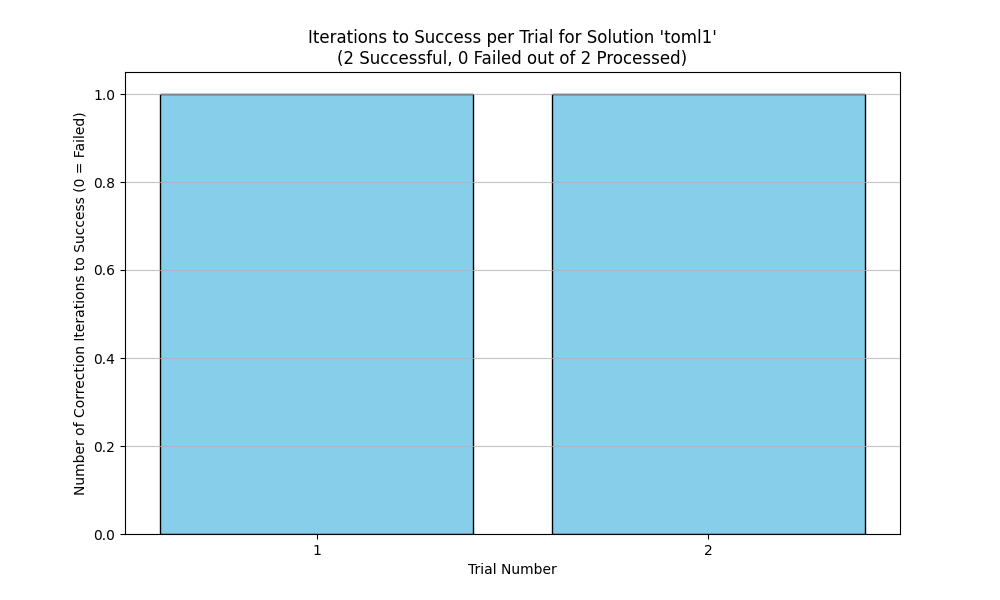
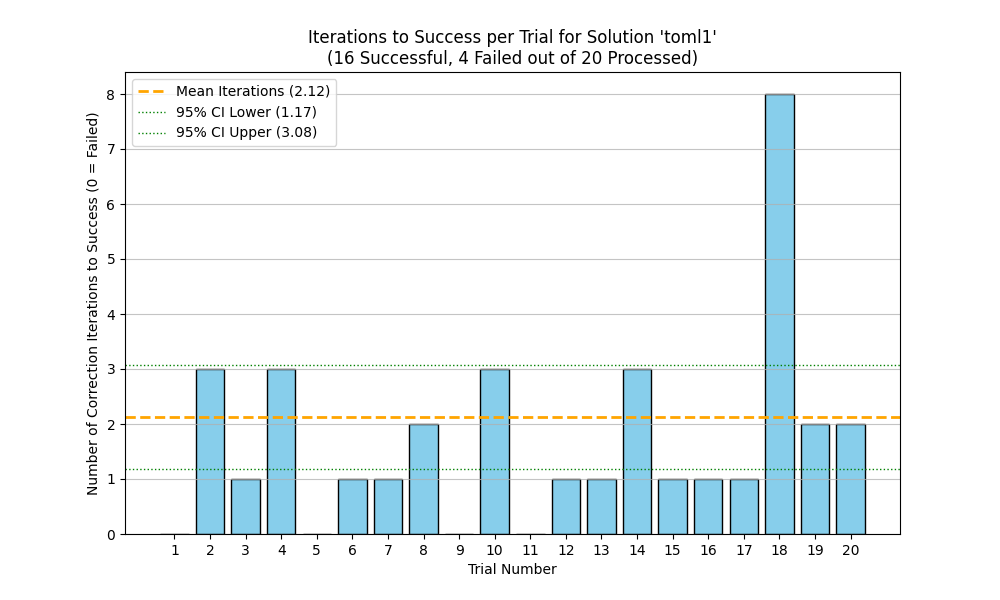
New graphic plot

diff --git a/plot.py b/plot.py
@@ -5,6 +5,8 @@ import statistics
 import matplotlib.pyplot as plt
 import glob
 from collections import Counter
+import numpy as np # Import numpy
+from scipy import stats # Import scipy.stats
 
 LOG_DIR = "logs"
 PLOT_DIR = "plots" # Define the output directory for plots
@@ -97,10 +99,10 @@ def main(trials, loops_value, solution_name):
             # trial_results[i] = -2 # Example: -2 for missing log
 
     # --- Statistics ---
-    successful_iterations = [iters for iters in trial_results.values() if iters > 0]
+    successful_iterations_overall = [iters for iters in trial_results.values() if iters > 0]
     # Failures are trials processed where result is <= 0
     failed_trials = len([res for res in trial_results.values() if res <= 0])
-    num_successful = len(successful_iterations)
+    num_successful = len(successful_iterations_overall)
     num_processed = len(trial_results) # Number of trials where logs were found
 
     print("\n--- Analysis Results ---")
@@ -114,42 +116,93 @@ def main(trials, loops_value, solution_name):
          print("\nNo trials processed (no relevant log files found). Cannot generate plot.")
          return # Exit if no data
 
+    # --- Calculate Cumulative Statistics ---
+    trial_numbers_processed = sorted(trial_results.keys())
+    cumulative_trial_numbers_for_plot = []
+    cumulative_means = []
+    cumulative_ci_lowers = []
+    cumulative_ci_uppers = []
+    current_successful_iterations = []
+
+    for k in trial_numbers_processed: # Iterate through the processed trials in order
+        if trial_results[k] > 0: # Consider only successful trials for cumulative stats
+            current_successful_iterations.append(trial_results[k])
+
+        if len(current_successful_iterations) >= 2: # Need at least 2 successful points for CI
+            mean_k = np.mean(current_successful_iterations)
+            sem_k = stats.sem(current_successful_iterations)
+            df_k = len(current_successful_iterations) - 1
+            confidence_level = 0.95
+            # Calculate confidence interval using t-distribution
+            # Handle potential division by zero or invalid df if sem is 0
+            if sem_k > 0 and df_k > 0:
+                 ci_margin_k = sem_k * stats.t.ppf((1 + confidence_level) / 2., df_k)
+                 ci_lower_k = mean_k - ci_margin_k
+                 ci_upper_k = mean_k + ci_margin_k
+            else: # If SEM is 0 (all values identical), CI is just the mean
+                 ci_lower_k = mean_k
+                 ci_upper_k = mean_k
+
+            cumulative_trial_numbers_for_plot.append(k)
+            cumulative_means.append(mean_k)
+            cumulative_ci_lowers.append(ci_lower_k)
+            cumulative_ci_uppers.append(ci_upper_k)
+        elif len(current_successful_iterations) == 1: # Can plot mean but not CI yet
+             mean_k = current_successful_iterations[0]
+             cumulative_trial_numbers_for_plot.append(k)
+             cumulative_means.append(mean_k)
+             # Append NaN for CI bounds when not calculable
+             cumulative_ci_lowers.append(np.nan)
+             cumulative_ci_uppers.append(np.nan)
+
     # --- Plotting ---
-    trial_numbers = sorted(trial_results.keys())
-    # Replace -1 (failure) with 0 for plotting purposes on the bar chart
-    iteration_values = [trial_results[t] if trial_results[t] > 0 else 0 for t in trial_numbers]
+    plt.figure(figsize=(max(10, len(trial_numbers_processed) * 0.5), 6)) # Adjust width based on number of trials
 
-    plt.figure(figsize=(max(10, len(trial_numbers) * 0.5), 6)) # Adjust width based on number of trials
+    # Plot individual successful points
+    successful_trial_numbers = [t for t in trial_numbers_processed if trial_results[t] > 0]
+    successful_iteration_values = [trial_results[t] for t in successful_trial_numbers]
+    if successful_trial_numbers:
+        plt.scatter(successful_trial_numbers, successful_iteration_values, color='skyblue', label='Successful Trial Iterations', zorder=5, alpha=0.7) # Use scatter
 
-    colors = ['red' if trial_results[t] <= 0 else 'skyblue' for t in trial_numbers]
-    plt.bar(trial_numbers, iteration_values, color=colors, edgecolor='black')
+    # Plot cumulative mean line
+    if cumulative_trial_numbers_for_plot:
+        plt.plot(cumulative_trial_numbers_for_plot, cumulative_means, marker='.', linestyle='-', color='orange', label='Cumulative Mean', zorder=10)
+
+        # Shade the cumulative confidence interval band
+        # Ensure CI bounds are numpy arrays for potential NaN handling if needed by fill_between
+        ci_lowers_np = np.array(cumulative_ci_lowers)
+        ci_uppers_np = np.array(cumulative_ci_uppers)
+        plt.fill_between(cumulative_trial_numbers_for_plot, ci_lowers_np, ci_uppers_np, color='palegreen', alpha=0.4, label='Cumulative 95% CI', zorder=0)
 
     plt.xlabel("Trial Number")
-    plt.ylabel("Number of Correction Iterations to Success (0 = Failed)")
-    plt.title(f"Iterations to Success per Trial for Solution '{solution_name}'\n({num_successful} Successful, {failed_trials} Failed out of {num_processed} Processed)")
-    plt.xticks(trial_numbers) # Ensure a tick for each trial
+    plt.ylabel("Number of Correction Iterations")
+    plt.title(f"Cumulative Mean Iterations to Success for Solution '{solution_name}'\n({num_successful} Successful, {failed_trials} Failed out of {num_processed} Processed)")
+    plt.xticks(trial_numbers_processed) # Ensure a tick for each processed trial
     plt.grid(axis='y', alpha=0.75)
     plt.ylim(bottom=0) # Ensure y-axis starts at 0
+    plt.legend() # Show legend
 
-    # Add overall stats text if needed
-    # plt.text(...)
+    # Add text for failure count
+    plt.text(0.95, 0.95, f'Failed Trials: {failed_trials}',
+             horizontalalignment='right', verticalalignment='top',
+             transform=plt.gca().transAxes, fontsize=10, color='red')
 
     # Ensure the plot directory exists
     os.makedirs(PLOT_DIR, exist_ok=True)
-    plot_filename = f"iterations_per_trial_{solution_name}.png"
+    plot_filename = f"cumulative_iterations_plot_{solution_name}.png" # New filename
     plot_filepath = os.path.join(PLOT_DIR, plot_filename) # Construct full path
 
     plt.savefig(plot_filepath) # Save to the plots directory
-    print(f"\nBar chart saved to: {plot_filepath}")
+    print(f"\nCumulative iterations plot saved to: {plot_filepath}")
     # plt.show() # Uncomment to display the plot interactively
 
-    # Also print summary stats if there were successes
+    # Also print overall summary stats if there were successes
     if num_successful > 0:
-        min_iters = min(successful_iterations)
-        max_iters = max(successful_iterations)
-        mean_iters = statistics.mean(successful_iterations)
-        median_iters = statistics.median(successful_iterations)
-        print(f"\nStatistics for Successful Trials:")
+        min_iters = min(successful_iterations_overall)
+        max_iters = max(successful_iterations_overall)
+        mean_iters = statistics.mean(successful_iterations_overall)
+        median_iters = statistics.median(successful_iterations_overall)
+        print(f"\nOverall Statistics for {num_successful} Successful Trials:")
         print(f"  Min iterations: {min_iters}")
         print(f"  Max iterations: {max_iters}")
         print(f"  Mean iterations: {mean_iters:.2f}")

diff --git a/Readme.md b/Readme.md
@@ -223,10 +223,13 @@ After running batch tests using `run_tester_multiple.ps1`, you can analyze the r
 
 *   Parses the `tester_run_..._runX.log` files generated during the batch test.
 *   For each trial (log file), it determines the number of correction loop iterations required to reach the "SUCCESS" state for the specified solution.
-*   Calculates statistics on successful trials (min, max, mean, median iterations).
+*   Calculates overall statistics on successful trials (min, max, mean, median iterations).
 *   Counts failed trials (where the success message wasn't found within the log).
-*   Generates a **bar chart** visualizing the number of iterations needed for success for each individual trial. Failed trials are shown with a bar height of 0.
-*   Saves the bar chart as a PNG file in the `plots/` directory (e.g., `plots/iterations_per_trial_SolutionName.png`).
+*   Generates a **line plot** showing:
+    *   Individual successful trials as points (scatter plot).
+    *   The **cumulative mean** number of iterations required for success, calculated progressively after each trial.
+    *   A shaded **95% confidence interval band** around the cumulative mean (calculated and plotted progressively where possible, requiring at least 2 successful trials up to that point).
+*   Saves the cumulative plot as a PNG file in the `plots/` directory (e.g., `plots/cumulative_iterations_plot_SolutionName.png`).
 
 **Usage:**
 
@@ -240,11 +243,11 @@ python plot.py -Trials <number_of_trials> -LoopsValue <max_loops_per_trial> -Sol
 *   `-LoopsValue <max_loops_per_trial>`: The maximum number of correction loops configured within `tester.py` (should match the `-LoopsValue` used with `run_tester_multiple.ps1`). This helps identify failures if success isn't reached.
 *   `-SolutionName <name_of_solution>`: The name of the solution that was tested (should match the `-SolutionName` used with `run_tester_multiple.ps1`).
 
-The script will print the statistics to the console and save the bar chart image in the `plots/` directory.
+The script will print the overall statistics to the console and save the cumulative line plot image (with CI band) in the `plots/` directory.
 
 **Dependencies:**
 
-Requires `matplotlib`. Ensure it's installed (it should be if you updated `requirements.txt` and re-ran `pip install -r requirements.txt` or `install.bat`).
+Requires `matplotlib`, `numpy`, and `scipy`. Ensure they are installed (they should be if you updated `requirements.txt` and re-ran `pip install -r requirements.txt` or `install.bat`).
 
 ## Contributing
 
